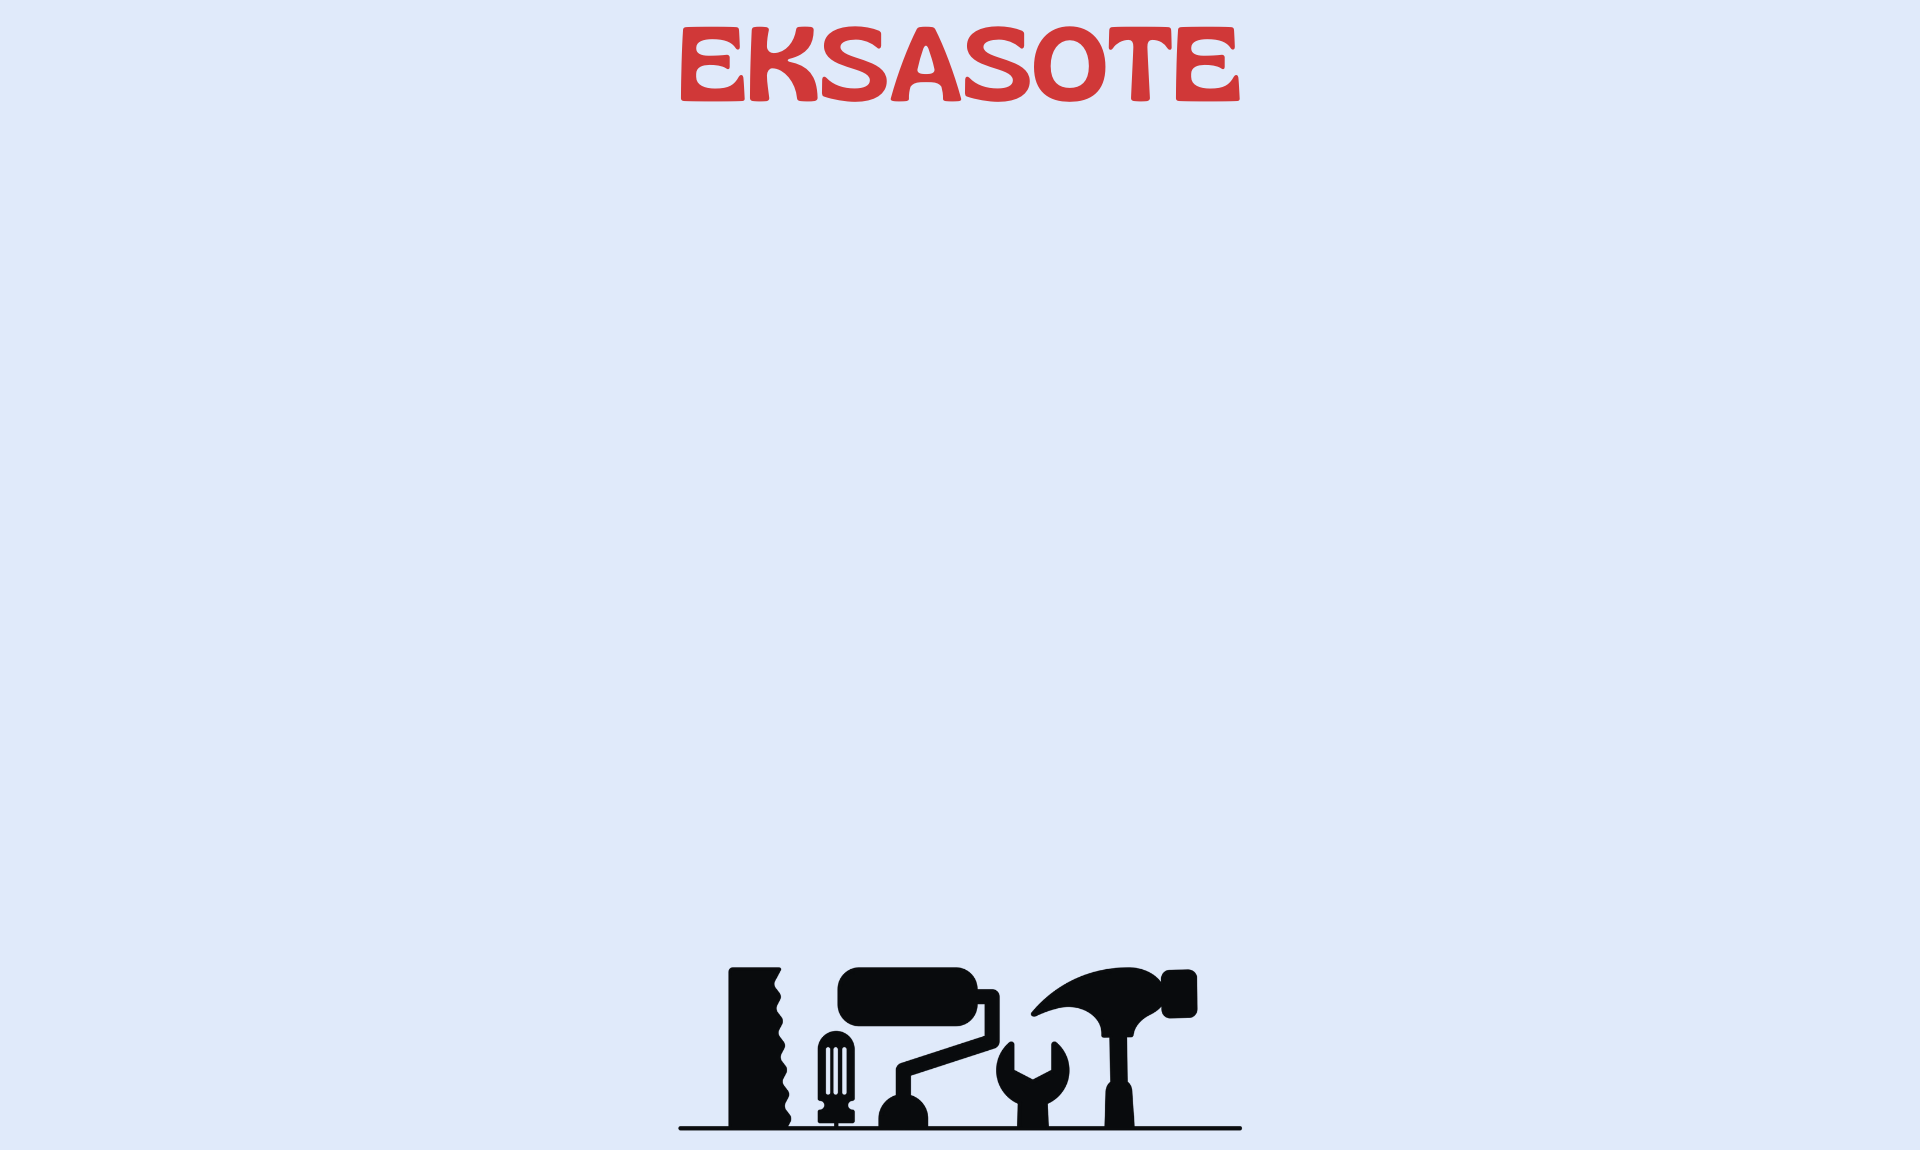
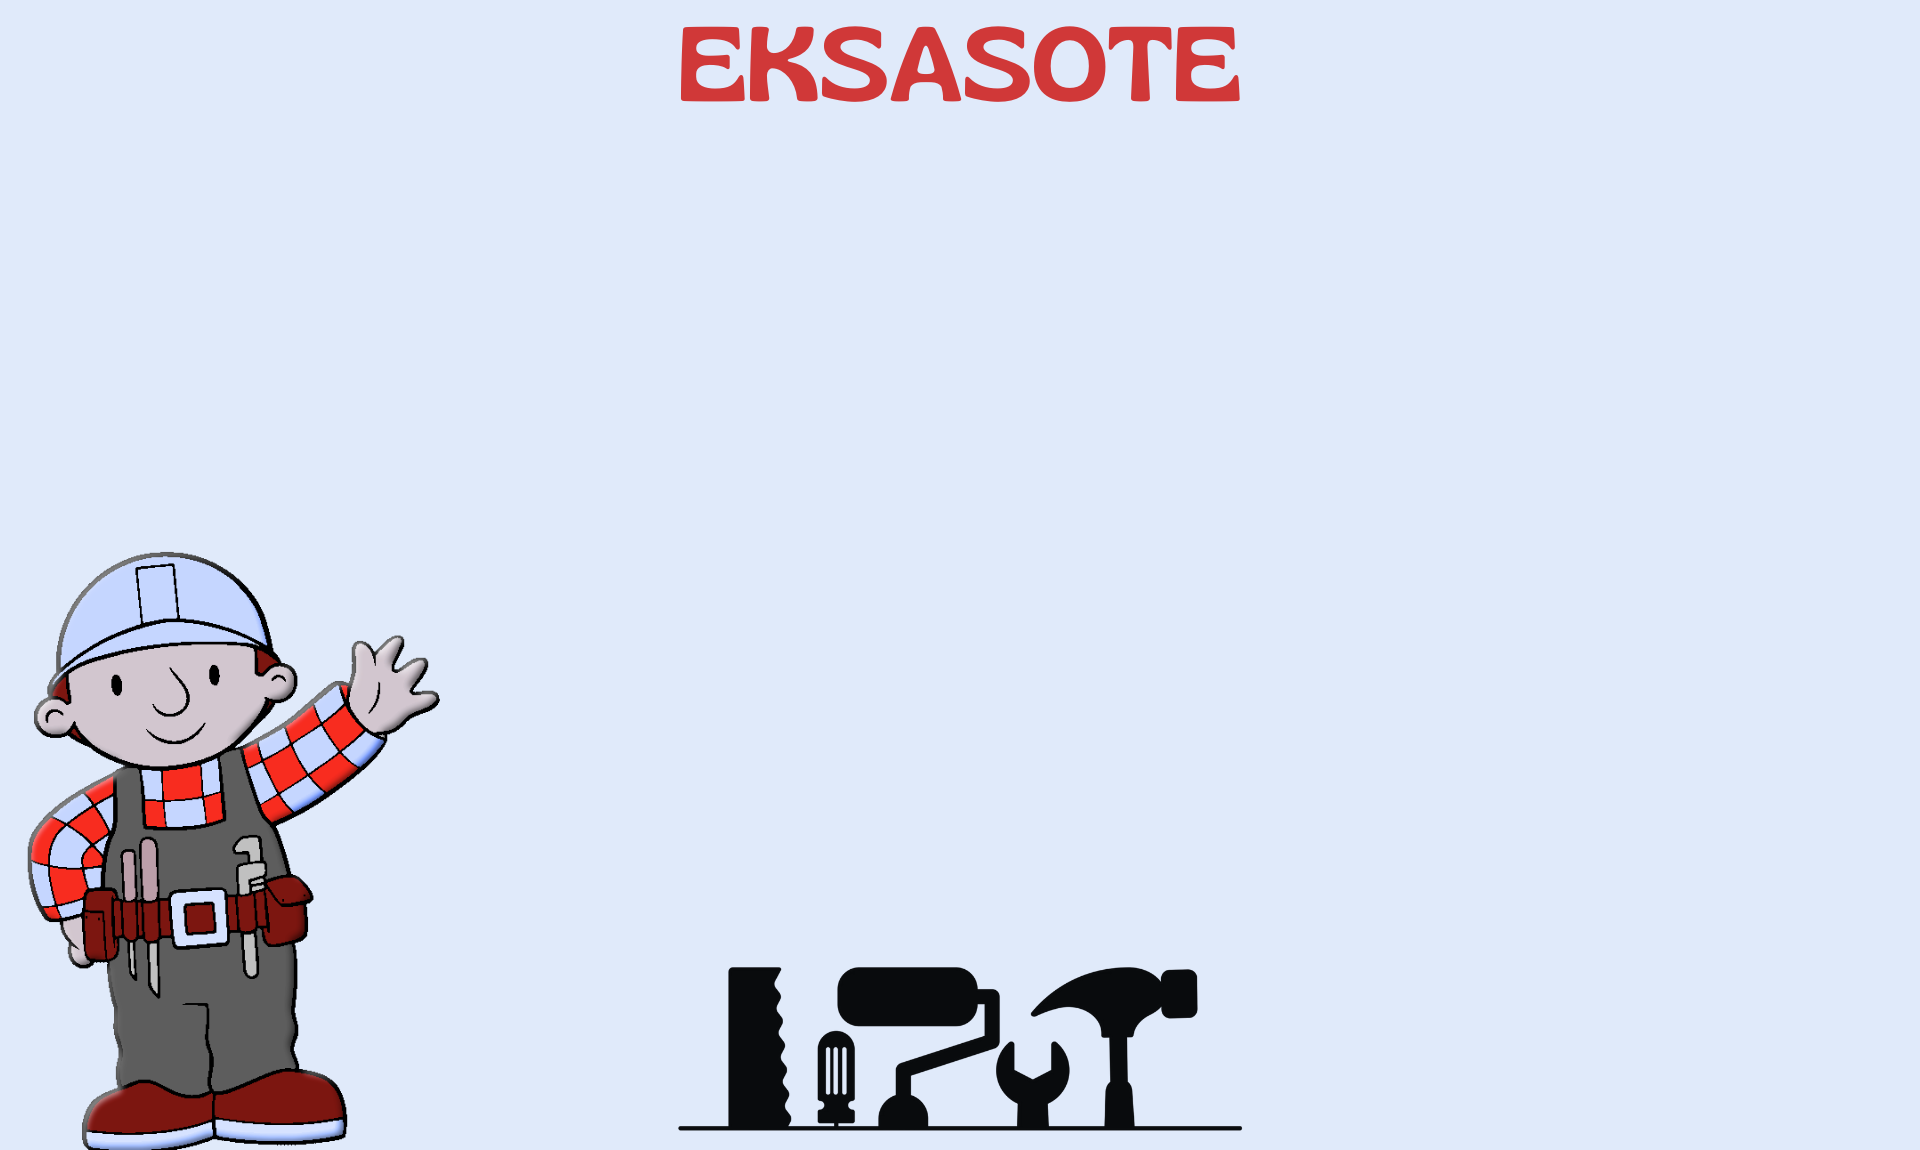
mise en page

Changed region(s): [[0.0, 0.4565, 0.25, 1.0]]

diff --git a/src/vue/AgendaPatientVue.java b/src/vue/AgendaPatientVue.java
@@ -2,52 +2,90 @@ package vue;
 
 import modele.RendezVous;
 
+import javax.imageio.ImageIO;
 import javax.swing.*;
 import java.awt.*;
+import java.awt.image.BufferedImage;
+import java.io.File;
+import java.io.IOException;
 import java.util.List;
 
 public class AgendaPatientVue extends JFrame {
-    // Modèle de données pour la liste des rendez-vous
     private DefaultListModel<RendezVous> modelListe;
-    
-    // Composant graphique qui affichera les rendez-vous dans une liste
     private JList<RendezVous> listeRdv;
 
-    // Constructeur de la vue, avec le nom du patient affiché dans le titre
     public AgendaPatientVue(String nomPatient) {
-        setTitle("Agenda de " + nomPatient);                   // Titre de la fenêtre
-        setSize(500, 400);                                     // Taille de la fenêtre
-        setDefaultCloseOperation(JFrame.DISPOSE_ON_CLOSE);     // Fermer uniquement cette fenêtre
-        setLocationRelativeTo(null);                           // Centrer la fenêtre sur l'écran
+        setTitle("Agenda de " + nomPatient);
+        setExtendedState(JFrame.MAXIMIZED_BOTH);
+        setDefaultCloseOperation(JFrame.DISPOSE_ON_CLOSE);
 
-        // Création du modèle et de la liste graphique
+        BackgroundPanel backgroundPanel = new BackgroundPanel("Images/6.png");
+        backgroundPanel.setLayout(new GridBagLayout());
+
+        Color rouge = new Color(208, 56, 56);
+        Color noir = new Color(0, 0, 0);
+        Color semiTransparentWhite = new Color(255, 255, 255, 220);
+
+        // Titre
+        JLabel titre = new JLabel("\uD83D\uDCC5 Rendez-vous à venir \uD83D\uDCC5", SwingConstants.CENTER);
+        titre.setFont(new Font("SansSerif", Font.BOLD, 48));
+        titre.setForeground(noir);
+        titre.setBorder(BorderFactory.createEmptyBorder(20, 0, 30, 0));
+
+        // Liste des rendez-vous
         modelListe = new DefaultListModel<>();
         listeRdv = new JList<>(modelListe);
+        listeRdv.setFont(new Font("SansSerif", Font.PLAIN, 18));
+        listeRdv.setForeground(Color.BLACK);
 
-        // Ajout d'une barre de défilement à la liste
-        JScrollPane scroll = new JScrollPane(listeRdv);
+        JScrollPane scrollPane = new JScrollPane(listeRdv);
+        scrollPane.setPreferredSize(new Dimension(600, 300));
+        scrollPane.setBorder(BorderFactory.createLineBorder(rouge, 3, true));
 
-        // Création d’un titre centré et stylisé
-        JLabel titre = new JLabel("Rendez-vous à venir", SwingConstants.CENTER);
-        titre.setFont(new Font("Arial", Font.BOLD, 18));       // Mise en forme du texte
+        JPanel container = new JPanel(new GridBagLayout());
+        container.setOpaque(false);
 
-        // Mise en page générale
-        setLayout(new BorderLayout());
-        add(titre, BorderLayout.NORTH);    // Le titre en haut
-        add(scroll, BorderLayout.CENTER);  // La liste au centre
+        GridBagConstraints gbc = new GridBagConstraints();
+        gbc.gridx = 0;
+        gbc.gridy = 0;
+        gbc.insets = new Insets(0, 0, 20, 0);
+        container.add(titre, gbc);
+
+        gbc.gridy = 1;
+        container.add(scrollPane, gbc);
+
+        backgroundPanel.add(container);
+        setContentPane(backgroundPanel);
     }
 
-    // Méthode publique pour afficher une liste de rendez-vous
     public void afficherListeRdv(List<RendezVous> rdvList) {
-        modelListe.clear();  // On vide la liste actuelle
-
-        // Si la liste est vide, on ajoute un message spécial
+        modelListe.clear();
         if (rdvList.isEmpty()) {
             modelListe.addElement(new RendezVous(-1, null, "Aucun rendez-vous à venir."));
         } else {
-            // Sinon, on ajoute chaque rendez-vous dans la liste
             for (RendezVous rdv : rdvList) {
                 modelListe.addElement(rdv);
+            }
+        }
+    }
+
+    static class BackgroundPanel extends JPanel {
+        private Image backgroundImage;
+
+        public BackgroundPanel(String imagePath) {
+            try {
+                backgroundImage = ImageIO.read(new File(imagePath));
+            } catch (IOException e) {
+                System.err.println("Erreur chargement image : " + e.getMessage());
+            }
+            setLayout(new GridBagLayout());
+        }
+
+        @Override
+        protected void paintComponent(Graphics g) {
+            super.paintComponent(g);
+            if (backgroundImage != null) {
+                g.drawImage(backgroundImage, 0, 0, getWidth(), getHeight(), this);
             }
         }
     }

diff --git a/src/vue/PriseRendezVousVue.java b/src/vue/PriseRendezVousVue.java
@@ -39,7 +39,7 @@ public class PriseRendezVousVue extends JFrame {
         Font buttonFont = new Font("SansSerif", Font.BOLD, 20);
 
         // Titre avec emojis
-        JLabel titreLabel = new JLabel("📅 Prise de Rendez-vous 🗓", SwingConstants.CENTER);
+        JLabel titreLabel = new JLabel("🗓 Prise de Rendez-vous 🗓", SwingConstants.CENTER);
         titreLabel.setFont(new Font("SansSerif", Font.BOLD, 48));
         titreLabel.setForeground(rouge);
         titreLabel.setBorder(BorderFactory.createEmptyBorder(20, 0, 30, 0));
